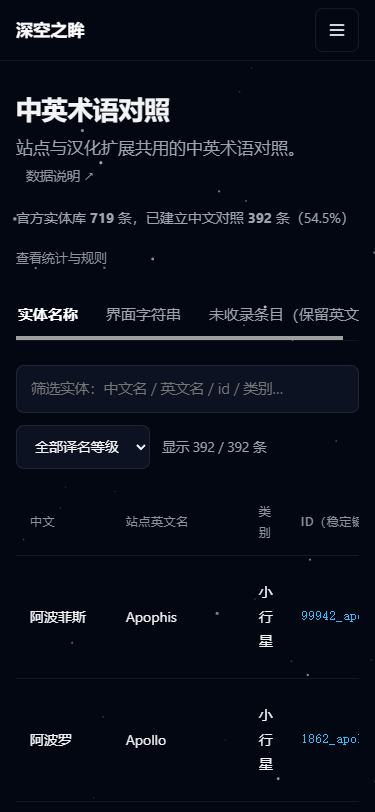
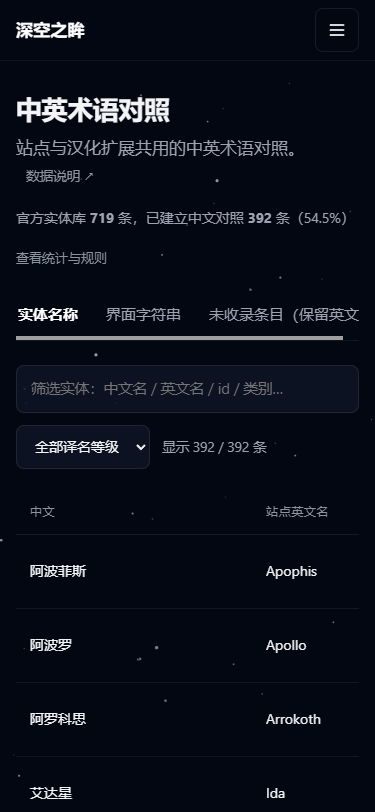
style(polish): 完善英文原文折叠指示与点击区域，收紧卡片内间距并优化移动端术语表排版

diff --git a/glossary.html b/glossary.html
@@ -13,7 +13,7 @@
 <meta name="twitter:title" content="中英术语对照 · 深空之眸">
 <meta name="twitter:description" content="NASA Eyes 实体库与界面字符串的中英术语对照表，标明每条译名的依据等级与未汉化范围。">
 <meta name="twitter:image" content="assets/img/PIA21895_final_image.png">
-<link rel="stylesheet" href="assets/css/main.css?v=20261015p3">
+<link rel="stylesheet" href="assets/css/main.css?v=20261015p3b">
 </head>
 <body>
 <main class="wrap">
@@ -48,7 +48,7 @@
       <span id="c-ent" style="color:var(--fg-dim);font-size:13.5px"></span>
     </div>
     <div class="table-container">
-      <table><thead><tr><th>中文</th><th>站点英文名</th><th>类别</th><th>id（稳定键名）</th><th>依据</th></tr></thead>
+      <table><thead><tr><th>中文</th><th>站点英文名</th><th>类别</th><th class="col-id">id（稳定键名）</th><th>依据</th></tr></thead>
       <tbody id="t-ent"></tbody></table>
     </div>
   </div>
@@ -72,12 +72,12 @@
       <span id="c-mis" style="color:var(--fg-dim);font-size:13.5px"></span>
     </div>
     <div class="table-container">
-      <table><thead><tr><th>英文名</th><th>类别</th><th>id</th></tr></thead><tbody id="t-mis"></tbody></table>
+      <table><thead><tr><th>英文名</th><th>类别</th><th class="col-id">id</th></tr></thead><tbody id="t-mis"></tbody></table>
     </div>
   </div>
 </main>
 <script type="module">
-import { renderChrome, getData, el } from './assets/js/site.js?v=20261015p3';
+import { renderChrome, getData, el } from './assets/js/site.js?v=20261015p3b';
 renderChrome('glossary.html');
 const { names, ui, entityById } = await getData();
 
@@ -118,7 +118,7 @@ function renderEnt() {
     .sort((a, b) => (a[1].cat || '').localeCompare(b[1].cat || '') || a[1].zh.localeCompare(b[1].zh, 'zh'));
   tbody('t-ent').replaceChildren(...rows.map(([id, e]) => el('tr', {},
     el('td', {}, e.zh), el('td', {}, e.en), el('td', {}, names.categories[e.cat] || e.cat || ''),
-    el('td', { class: 'mono' }, id), el('td', {}, statusLabel(e.status)))));
+    el('td', { class: 'mono col-id' }, id), el('td', {}, statusLabel(e.status)))));
   document.getElementById('c-ent').textContent = `显示 ${rows.length} / ${covered} 条`;
 }
 
@@ -143,7 +143,7 @@ function renderMissing() {
       (a.displayName || a.iauName || '').localeCompare(b.displayName || b.iauName || ''));
   tbody('t-mis').replaceChildren(...rows.map((e) => el('tr', {},
     el('td', {}, e.displayName || e.iauName || e.id),
-    el('td', {}, names.categories[e.category] || e.category || ''), el('td', { class: 'mono' }, e.id))));
+    el('td', {}, names.categories[e.category] || e.category || ''), el('td', { class: 'mono col-id' }, e.id))));
   document.getElementById('c-mis').textContent = `显示 ${rows.length} / ${[...entityById.values()].filter((e) => !names.entities[e.id]).length} 条`;
 }
 

diff --git a/assets/css/main.css b/assets/css/main.css
@@ -710,32 +710,56 @@ a.card:hover {
 }
 
 .entry-desc {
-  margin: 0 0 var(--space-2);
+  margin: 0;
   color: var(--fg-dim);
   font-size: 14px;
-  line-height: 1.65;
-  flex-grow: 1;
+  line-height: 1.6;
 }
 
 .entry-details {
-  margin: var(--space-1) 0 var(--space-2);
+  margin: var(--space-2) 0 0;
 }
 .entry-details summary {
-  font-size: 12.5px;
-  color: var(--fg-muted);
-  cursor: pointer;
-  padding: 4px 0;
-  min-height: 32px;
+  list-style: none;
   display: inline-flex;
   align-items: center;
-  transition: color var(--transition);
+  gap: 8px;
+  font-size: 13px;
+  color: var(--fg-muted);
+  cursor: pointer;
+  min-height: 44px;
+  user-select: none;
+  transition: color 150ms ease;
+  outline-offset: 3px;
+}
+.entry-details summary::-webkit-details-marker {
+  display: none;
+}
+.entry-details summary::before {
+  content: '';
+  display: inline-block;
+  width: 5px;
+  height: 5px;
+  border-right: 1.5px solid currentColor;
+  border-bottom: 1.5px solid currentColor;
+  transform: rotate(-45deg);
+  transition: transform 180ms ease;
+  margin-right: 2px;
+}
+.entry-details[open] summary::before {
+  transform: rotate(45deg);
 }
 .entry-details summary:hover {
-  color: var(--fg-dim);
+  color: #ffffff;
+}
+.entry-details summary:focus-visible {
+  outline: 2px solid var(--accent);
+  outline-offset: 3px;
+  border-radius: 4px;
 }
 .entry-details p {
-  margin: 6px 0 0;
-  font-size: 12.5px;
+  margin: 0 0 var(--space-2);
+  font-size: 13px;
   line-height: 1.6;
   color: var(--fg-muted);
 }
@@ -745,8 +769,8 @@ a.card:hover {
   flex-wrap: wrap;
   align-items: center;
   gap: 16px;
-  margin-top: var(--space-2);
-  padding-top: var(--space-1);
+  margin-top: auto;
+  padding-top: var(--space-3);
 }
 .entry-action-primary {
   display: inline-flex;
@@ -1262,8 +1286,14 @@ tbody tr:hover {
 }
 td.mono {
   font-family: ui-monospace, SFMono-Regular, Menlo, monospace;
-  font-size: 13px;
-  color: #38bdf8;
+  font-size: 12px;
+  color: var(--fg-muted);
+}
+
+@media (max-width: 640px) {
+  .col-id {
+    display: none !important;
+  }
 }
 
 /* ---------- Tab Navigation (Phase 3 Underline Style) ---------- */

diff --git a/guide.html b/guide.html
@@ -13,7 +13,7 @@
 <meta name="twitter:title" content="操作说明 · 深空之眸">
 <meta name="twitter:description" content="NASA Eyes on the Solar System 官方 3D 模拟器的中文操作说明，键位与功能描述译自站点内置的新手引导，并附本项目实测结论。">
 <meta name="twitter:image" content="assets/img/PIA21895_final_image.png">
-<link rel="stylesheet" href="assets/css/main.css?v=20261015p3">
+<link rel="stylesheet" href="assets/css/main.css?v=20261015p3b">
 </head>
 <body>
 <main class="wrap">
@@ -88,7 +88,7 @@
   </ol>
 </main>
 <script type="module">
-import { renderChrome, getData, el } from './assets/js/site.js?v=20261015p3';
+import { renderChrome, getData, el } from './assets/js/site.js?v=20261015p3b';
 renderChrome('guide.html');
 const { ui } = await getData();
 const RAIL = ['Show info panel','Toggle layers','Toggle between metric and imperial units','Show or hide UI','Zoom in','Zoom out','Toggle light modes','Toggle auto camera','Toggle fullscreen','Show or hide settings','Expand time controls','Pause or play','Increase time rate','Decrease time rate','Return to real time speed','Reset time to live.'];

diff --git a/explore.html b/explore.html
@@ -13,7 +13,7 @@
 <meta name="twitter:title" content="3D 漫游 · 深空之眸">
 <meta name="twitter:description" content="嵌入 NASA/JPL 官方 Eyes on the Solar System 3D 动力学模拟器，体验卡西尼号土星大结局沉浸式三幕探索剧场，提供中文快捷导航、探索引导与全景视口。">
 <meta name="twitter:image" content="assets/img/PIA21895_final_image.png">
-<link rel="stylesheet" href="assets/css/main.css?v=20261015p3">
+<link rel="stylesheet" href="assets/css/main.css?v=20261015p3b">
 <style>
   /* ---------- Streamlined Header & Mode HUD ---------- */
   .explore-header {
@@ -1562,7 +1562,7 @@
 </main>
 
 <script type="module">
-import { renderChrome, getData, embedUrl, el, assetUrl } from './assets/js/site.js?v=20261015p3';
+import { renderChrome, getData, embedUrl, el, assetUrl } from './assets/js/site.js?v=20261015p3b';
 renderChrome('explore.html');
 const { names, entityById } = await getData();
 

diff --git a/voyager-1.html b/voyager-1.html
@@ -13,7 +13,7 @@
 <meta name="twitter:title" content="旅行者 1 号特写 · 此刻它在太阳系的位置 · 深空之眸">
 <meta name="twitter:description" content="旅行者 1 号的实时距离、信号延迟与星际穿越故事；位置基于 NASA/JPL Eyes 官方 3D 模拟器动力学解算，星历数据源自 JPL Horizons。">
 <meta name="twitter:image" content="assets/img/PIA21895_final_image.png">
-<link rel="stylesheet" href="assets/css/main.css?v=20261015p3">
+<link rel="stylesheet" href="assets/css/main.css?v=20261015p3b">
 </head>
 <body>
 <main class="wrap">
@@ -93,7 +93,7 @@
 </main>
 
 <script type="module">
-import { renderChrome, embedUrl, el, initStageLoader } from './assets/js/site.js?v=20261015p3';
+import { renderChrome, embedUrl, el, initStageLoader } from './assets/js/site.js?v=20261015p3b';
 renderChrome('voyager-1.html');
 
 const frame = document.getElementById('eyes');

diff --git a/bodies.html b/bodies.html
@@ -13,7 +13,7 @@
 <meta name="twitter:title" content="天体中文名与简介 · 深空之眸">
 <meta name="twitter:description" content="太阳、行星、矮行星与主要卫星的规范中文名称及简介，中文内容译自 NASA/JPL 官方 descriptions 数据并逐条标注来源。">
 <meta name="twitter:image" content="assets/img/PIA21895_final_image.png">
-<link rel="stylesheet" href="assets/css/main.css?v=20261015p3">
+<link rel="stylesheet" href="assets/css/main.css?v=20261015p3b">
 </head>
 <body>
 <main class="wrap">
@@ -30,7 +30,7 @@
   </p>
 </main>
 <script type="module">
-import { renderChrome, getData, el } from './assets/js/site.js?v=20261015p3';
+import { renderChrome, getData, el } from './assets/js/site.js?v=20261015p3b';
 renderChrome('bodies.html');
 const { bodies, names } = await getData();
 const list = document.getElementById('list');

diff --git a/extension.html b/extension.html
@@ -13,7 +13,7 @@
 <meta name="twitter:title" content="安装中文汉化扩展 · 深空之眸">
 <meta name="twitter:description" content="在 Chrome 或 Edge 桌面浏览器中安装非官方汉化扩展，直接在 NASA 官方站点内把界面与 3D 天体标签替换为简体中文。">
 <meta name="twitter:image" content="assets/img/PIA21895_final_image.png">
-<link rel="stylesheet" href="assets/css/main.css?v=20261015p3">
+<link rel="stylesheet" href="assets/css/main.css?v=20261015p3b">
 </head>
 <body>
 <main class="wrap">
@@ -86,7 +86,7 @@
   <p><a href="glossary.html">查看术语表</a> · <a href="about.html">合规与数据来源</a></p>
 </main>
 <script type="module">
-import { renderChrome } from './assets/js/site.js?v=20261015p3';
+import { renderChrome } from './assets/js/site.js?v=20261015p3b';
 renderChrome('extension.html');
 </script>
 </body>

diff --git a/missions.html b/missions.html
@@ -13,7 +13,7 @@
 <meta name="twitter:title" content="航天器与任务介绍 · 深空之眸">
 <meta name="twitter:description" content="NASA 行星探测任务的中文介绍，内容译自 NASA/JPL 官方 descriptions 数据并逐条标注来源，可一键进入官方 3D 视图。">
 <meta name="twitter:image" content="assets/img/PIA21895_final_image.png">
-<link rel="stylesheet" href="assets/css/main.css?v=20261015p3">
+<link rel="stylesheet" href="assets/css/main.css?v=20261015p3b">
 </head>
 <body>
 <main class="wrap">
@@ -31,7 +31,7 @@
   </p>
 </main>
 <script type="module">
-import { renderChrome, getData, el } from './assets/js/site.js?v=20261015p3';
+import { renderChrome, getData, el } from './assets/js/site.js?v=20261015p3b';
 renderChrome('missions.html');
 const { missions, names } = await getData();
 const list = document.getElementById('list');

diff --git a/jwst.html b/jwst.html
@@ -13,7 +13,7 @@
 <meta name="twitter:title" content="詹姆斯·韦伯空间望远镜特写 · 深空之眸">
 <meta name="twitter:description" content="詹姆斯·韦伯空间望远镜 (JWST) 核心参数、日地 L2 拉格朗日点晕轨道与 3D 展开姿态解析。">
 <meta name="twitter:image" content="assets/img/PIA21895_final_image.png">
-<link rel="stylesheet" href="assets/css/main.css?v=20261015p3">
+<link rel="stylesheet" href="assets/css/main.css?v=20261015p3b">
 <style>
   .jwst-specs {
     display: grid;
@@ -140,7 +140,7 @@
 </main>
 
 <script type="module">
-import { renderChrome, embedUrl, initStageLoader } from './assets/js/site.js?v=20261015p3';
+import { renderChrome, embedUrl, initStageLoader } from './assets/js/site.js?v=20261015p3b';
 renderChrome('jwst.html');
 
 const frame = document.getElementById('eyes');

diff --git a/mars.html b/mars.html
@@ -13,7 +13,7 @@
 <meta name="twitter:title" content="火星探索特写 · 红色星球与漫游车 · 深空之眸">
 <meta name="twitter:description" content="火星全貌、地质奇观与毅力号、好奇号火星车 3D 模拟视角联动。基于 NASA/JPL Eyes 官方 3D 太阳系模拟器。">
 <meta name="twitter:image" content="assets/img/PIA21895_final_image.png">
-<link rel="stylesheet" href="assets/css/main.css?v=20261015p3">
+<link rel="stylesheet" href="assets/css/main.css?v=20261015p3b">
 <style>
   .mars-views {
     display: flex;
@@ -175,7 +175,7 @@
 </main>
 
 <script type="module">
-import { renderChrome, embedUrl, initStageLoader } from './assets/js/site.js?v=20261015p3';
+import { renderChrome, embedUrl, initStageLoader } from './assets/js/site.js?v=20261015p3b';
 renderChrome('mars.html');
 
 const views = {

diff --git a/saturn.html b/saturn.html
@@ -13,7 +13,7 @@
 <meta name="twitter:title" content="土星与环系奇观 · 深空之眸">
 <meta name="twitter:description" content="土星壮丽光环、卡西尼号探测器、土卫六泰坦与土卫二地下冰海。基于 NASA/JPL Eyes 官方 3D 动力学解算。">
 <meta name="twitter:image" content="assets/img/PIA21895_final_image.png">
-<link rel="stylesheet" href="assets/css/main.css?v=20261015p3">
+<link rel="stylesheet" href="assets/css/main.css?v=20261015p3b">
 <style>
   .saturn-views {
     display: flex;
@@ -170,7 +170,7 @@
 </main>
 
 <script type="module">
-import { renderChrome, embedUrl, initStageLoader } from './assets/js/site.js?v=20261015p3';
+import { renderChrome, embedUrl, initStageLoader } from './assets/js/site.js?v=20261015p3b';
 renderChrome('saturn.html');
 
 const views = {

diff --git a/index.html b/index.html
@@ -13,7 +13,7 @@
 <meta name="twitter:title" content="深空之眸 · NASA Eyes 中文观测站">
 <meta name="twitter:description" content="基于 NASA/JPL Eyes on the Solar System 官方 3D 动力学模拟器的中文观测站：卡西尼号土星大结局 3D 探索剧场、深空旗舰特写、天体中文名与术语对照。">
 <meta name="twitter:image" content="assets/img/PIA21895_final_image.png">
-<link rel="stylesheet" href="assets/css/main.css?v=20261015p3">
+<link rel="stylesheet" href="assets/css/main.css?v=20261015p3b">
 </head>
 <body>
 <main class="wrap">
@@ -69,7 +69,7 @@
 </main>
 
 <script type="module">
-import { renderChrome } from './assets/js/site.js?v=20261015p3';
+import { renderChrome } from './assets/js/site.js?v=20261015p3b';
 renderChrome('index.html');
 </script>
 </body>
